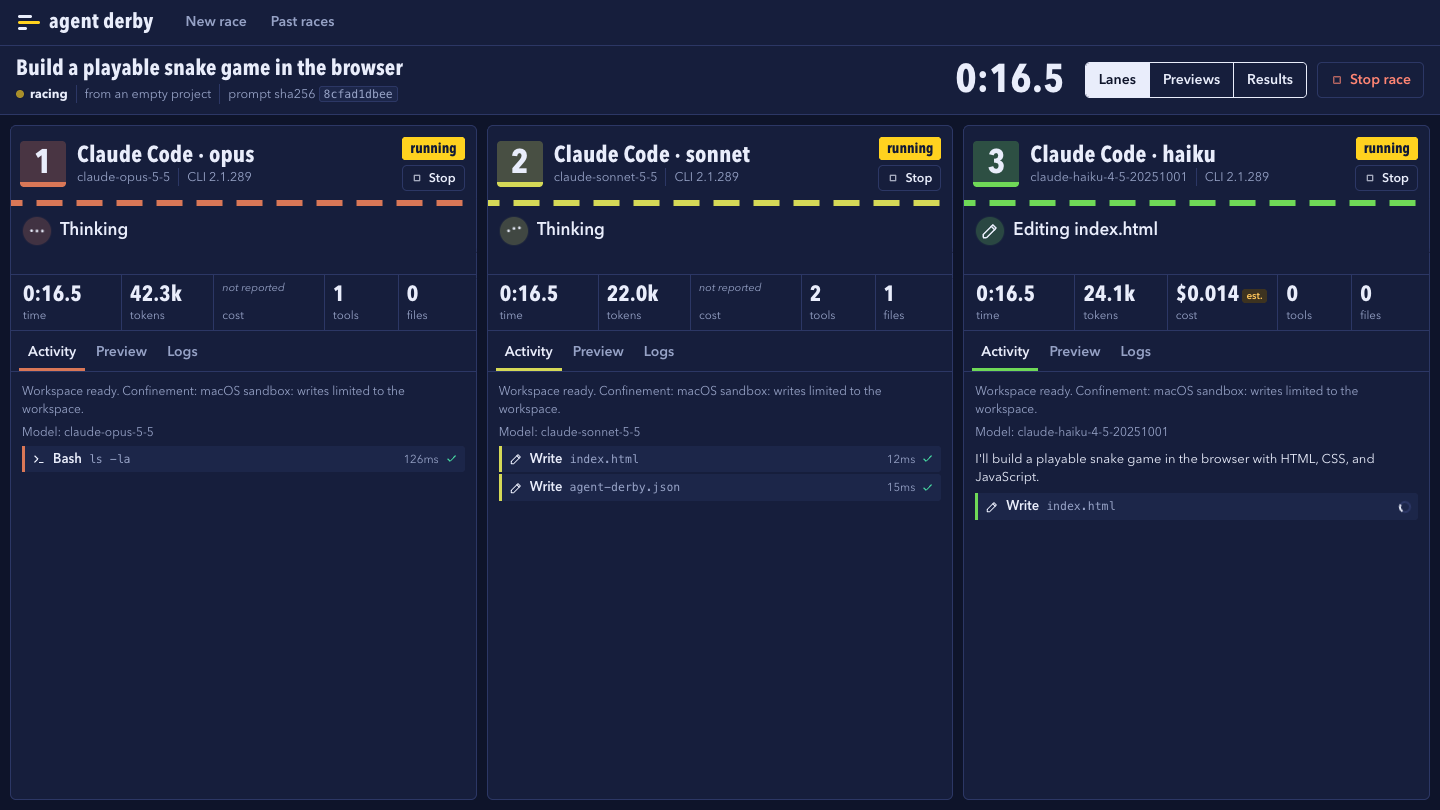
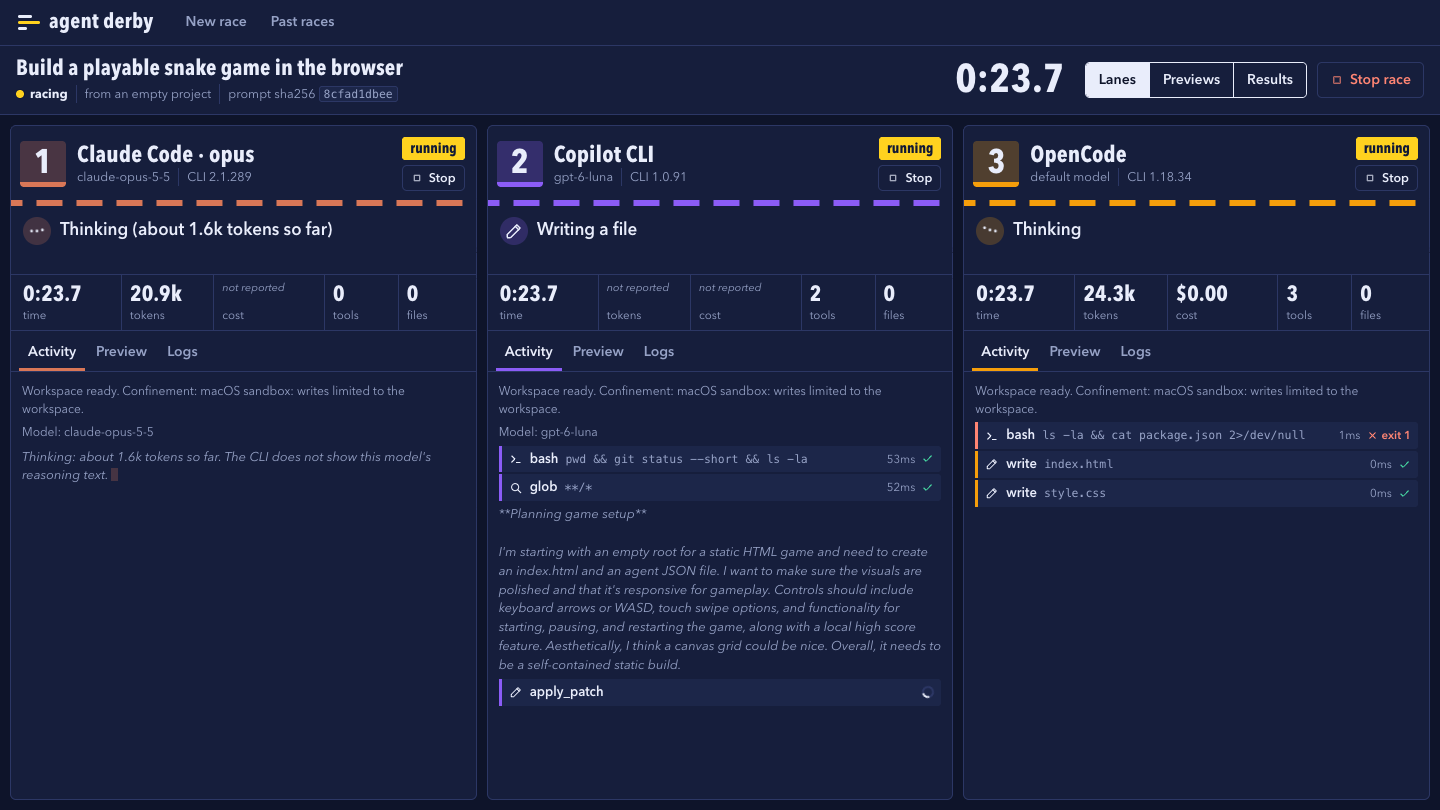
Release 0.2.0: stall limit, real three-vendor race in the README
- A lane that prints nothing at all for 5 minutes (adjustable, or off) is
  stopped and marked as stalled, and the lane counts down to it
- README images and GIF now come from a real race between Claude Code,
  Copilot CLI and OpenCode; new sections for blind races, follow-ups, the
  judge, suites and replay; a status table for every supported agent
- Tool durations for CLIs that report tools after the fact

diff --git a/src/server/race/engine.ts b/src/server/race/engine.ts
@@ -53,7 +53,10 @@ const FINISH_TIMEOUT = 15 * 60_000;
 const MAX_LANES = 8;
 const SNAPSHOT_FEED = 300;
 
-type StopReason = 'stopped' | 'timed_out' | 'over_budget';
+type StopReason = 'stopped' | 'timed_out' | 'over_budget' | 'stalled';
+
+/** A lane silent for this long is treated as stalled, unless the race says otherwise. */
+const DEFAULT_IDLE_LIMIT_SEC = 300;
 
 /** Things about a race that are not part of the public Race object. */
 interface Internal {
@@ -383,6 +386,7 @@ export class RaceEngine extends EventEmitter {
       timeLimitSec: setup.timeLimitSec && setup.timeLimitSec > 0 ? setup.timeLimitSec : undefined,
       costLimitUsd: setup.costLimitUsd && setup.costLimitUsd > 0 ? setup.costLimitUsd : undefined,
       blind: Boolean(setup.blind) || undefined,
+      idleLimitSec: typeof setup.idleLimitSec === 'number' && setup.idleLimitSec >= 0 ? setup.idleLimitSec : undefined,
     };
 
     const race: Race = {
@@ -725,7 +729,7 @@ export class RaceEngine extends EventEmitter {
           item.tool.target = ev.target ?? item.tool.target;
           lr.dirty.add(item);
         }
-        if (!ev.pending && !lr.toolStart.has(ev.id)) lr.toolStart.set(ev.id, t);
+        if (!ev.pending && !lr.toolStart.has(ev.id)) lr.toolStart.set(ev.id, Math.max(0, t - (ev.agoMs ?? 0)));
         lr.openTools.add(ev.id);
         this.closeStreaming(lr);
         this.setNow(lr, describeTool(ev.kind, ev.name, item.tool?.target ?? ev.target, Boolean(ev.pending)));
@@ -810,8 +814,15 @@ export class RaceEngine extends EventEmitter {
       if (lr.lane.state !== 'running') continue;
       active = true;
       const idle = Date.now() - lr.lastActivity;
-      if (idle > 45_000 && lr.openTools.size === 0) {
-        this.setNow(lr, { kind: 'waiting', text: `No output for ${Math.round(idle / 1000)}s` });
+      const idleLimit = rt.race.setup.idleLimitSec ?? DEFAULT_IDLE_LIMIT_SEC;
+      if (idleLimit > 0 && idle > idleLimit * 1000 && !lr.stopReason) {
+        this.stopLaneInternal(rt, lr, 'stalled');
+      } else if (idle > 45_000 && lr.openTools.size === 0) {
+        const left = idleLimit > 0 ? Math.max(0, Math.round(idleLimit - idle / 1000)) : null;
+        this.setNow(lr, {
+          kind: 'waiting',
+          text: `No output for ${Math.round(idle / 1000)}s${left !== null ? ` (stopped as stalled in ${left >= 90 ? `${Math.round(left / 60)} min` : `${left}s`})` : ''}`,
+        });
       }
       const limit = rt.race.setup.costLimitUsd;
       const cost = lr.tracker?.costNow() ?? null;
@@ -908,6 +919,10 @@ export class RaceEngine extends EventEmitter {
 
     // How did the agent itself end?
     if (lr.stopReason === 'stopped') return this.finishLane(rt, lr, 'stopped', 'Stopped by you');
+    if (lr.stopReason === 'stalled') {
+      const limit = rt.race.setup.idleLimitSec ?? DEFAULT_IDLE_LIMIT_SEC;
+      return this.finishLane(rt, lr, 'timed_out', `Stalled: no output at all for ${formatLimit(limit).replace('-', ' ')}s, so it was stopped`);
+    }
     if (lr.stopReason === 'timed_out') {
       return this.finishLane(rt, lr, 'timed_out', `Still running after the ${formatLimit(rt.race.setup.timeLimitSec ?? 0)} time limit`);
     }

diff --git a/web/src/components/Setup.tsx b/web/src/components/Setup.tsx
@@ -392,6 +392,7 @@ export function Setup() {
   const [repoChecking, setRepoChecking] = useState(false);
   const [repoError, setRepoError] = useState<string | null>(null);
   const [finishCommand, setFinishCommand] = useState(prefill?.finishCommand ?? '');
+  const [idleLimitMin, setIdleLimitMin] = useState(prefill?.idleLimitSec !== undefined ? String(Math.round((prefill.idleLimitSec / 60) * 100) / 100) : '');
   const [timeLimitMin, setTimeLimitMin] = useState(prefill?.timeLimitSec ? String(Math.round((prefill.timeLimitSec / 60) * 100) / 100) : '');
   const [costLimit, setCostLimit] = useState(prefill?.costLimitUsd ? String(prefill.costLimitUsd) : '');
   const [blind, setBlind] = useState(prefill?.blind === true);
@@ -515,6 +516,7 @@ export function Setup() {
   const unsigned = liveRows.map((r) => byId.get(r.agentId)).filter((a): a is AgentInfo => !!a && a.auth === 'missing');
 
   const timeNum = timeLimitMin.trim() === '' ? null : Number(timeLimitMin);
+  const idleNum = idleLimitMin.trim() === '' ? null : Number(idleLimitMin);
   const costNum = costLimit.trim() === '' ? null : Number(costLimit);
 
   const suiteTasks = [task, ...moreTasks];
@@ -559,6 +561,7 @@ export function Setup() {
       const setup: RaceSetup = { task: task.trim(), entrants, source };
       if (finishCommand.trim()) setup.finishCommand = finishCommand.trim();
       if (timeNum !== null) setup.timeLimitSec = Math.round(timeNum * 60);
+      if (idleNum !== null && Number.isFinite(idleNum) && idleNum >= 0) setup.idleLimitSec = Math.round(idleNum * 60);
       if (costNum !== null) setup.costLimitUsd = costNum;
       if (blind) setup.blind = true;
       rememberSetup(setup);
@@ -837,6 +840,13 @@ export function Setup() {
             <label className="field">
               <span>Time limit per agent, minutes</span>
               <input type="number" min="0" step="any" inputMode="decimal" value={timeLimitMin} onChange={(ev) => setTimeLimitMin(ev.target.value)} placeholder="no limit" />
+            </label>
+            <label className="field">
+              <span>Stop a silent agent after, minutes</span>
+              <input type="number" min="0" step="any" inputMode="decimal" value={idleLimitMin} onChange={(ev) => setIdleLimitMin(ev.target.value)} placeholder="5" />
+              <small className="muted">
+                An agent that prints nothing at all for this long is stopped and marked as stalled. 0 turns this off.
+              </small>
             </label>
             <label className="field">
               <span>Cost limit per agent, USD</span>

diff --git a/test/engine.test.ts b/test/engine.test.ts
@@ -198,6 +198,20 @@ describe('race engine with mock agents', () => {
     expect(done.lanes[0]!.stateReason).toBe('Stopped by you');
   }, 30_000);
 
+  it('stops a lane that goes completely silent, and says it stalled', async () => {
+    const created = await engine.create({
+      task: 'x',
+      entrants: [{ agentId: 'mock-gremlin', options: { scenario: 'hang' } }, { agentId: 'mock-hare' }],
+      source: { type: 'empty' },
+      idleLimitSec: 2,
+    });
+    const done = await settled(created.id, 20_000);
+    expect(done.lanes.map((l) => l.state)).toEqual(['timed_out', 'finished']);
+    expect(done.lanes[0]!.stateReason).toBe('Stalled: no output at all for 2 seconds, so it was stopped');
+    // The clock stopped when the stall was called, not when the stubborn process finally died.
+    expect(done.lanes[0]!.metrics.time.wallMs).toBeLessThan(4500);
+  }, 30_000);
+
   it('a failing finish command turns a completed run into a failure; a passing one records test counts', async () => {
     const created = await engine.create({
       task: 'x',

diff --git a/src/cli.ts b/src/cli.ts
@@ -42,6 +42,7 @@ Options for "run"
   -f, --finish <cmd>     a lane only finishes successfully if this passes, e.g. "npm test"
   -t, --time <limit>     per-agent time limit: 90s, 10m, 1h
   -c, --cost <usd>       per-agent cost limit in USD
+      --idle <limit>     stop an agent that prints nothing for this long (default 5m, "off" to disable)
       --plain            line-by-line output instead of panes (default when piped)
       --json             print the final race as JSON
       --open             also open the race in the browser
@@ -328,6 +329,7 @@ async function run(args: Args): Promise<void> {
       timeLimitSec: typeof args.flags.time === 'string' ? parseDuration(args.flags.time) : undefined,
       costLimitUsd: typeof args.flags.cost === 'string' ? Number(args.flags.cost) || undefined : undefined,
       blind: Boolean(args.flags.blind),
+      idleLimitSec: typeof args.flags.idle === 'string' ? (/^(off|0|none)$/i.test(args.flags.idle) ? 0 : parseDuration(args.flags.idle)) : undefined,
     };
   }
 

diff --git a/src/shared/types.ts b/src/shared/types.ts
@@ -94,6 +94,11 @@ export interface RaceSetup {
   finishCommand?: string;
   timeLimitSec?: number;
   costLimitUsd?: number;
+  /**
+   * Stop a lane that has produced no output at all for this long, and mark it
+   * as stalled. Undefined = the default of 5 minutes; 0 = never.
+   */
+  idleLimitSec?: number;
   /** Blind race: the UI hides which agent is in which lane until the user votes. */
   blind?: boolean;
 }

diff --git a/README.md b/README.md
@@ -14,7 +14,7 @@
 </p>
 
 <p align="center">
-  <img src="docs/assets/demo.gif" alt="A real race: Claude Opus 5.5, Sonnet 5.5 and Haiku 4.5 build a snake game, then all three games are playable in their lanes (time-lapse)" width="900">
+  <img src="docs/assets/demo.gif" alt="A real race between Claude Code, Copilot CLI and OpenCode building a snake game, then the finished games playable in their lanes (time-lapse)" width="900">
 </p>
 
 ```bash
@@ -36,13 +36,8 @@ People argue about which coding agent is best, but the evidence is public benchm
 - **When an agent finishes, its result runs inside the app**: web apps and games in an iframe, terminal programs in a real terminal.
 
 <p align="center">
-  <img src="docs/assets/racing.png" alt="Three Claude models mid-race, one lane each" width="820"><br>
-  <sub>Mid-race. Every screenshot on this page is from one real race: Claude Code on Opus 5.5, Sonnet 5.5 and Haiku 4.5, same prompt, real numbers. The GIF above is that race, sped up.</sub>
-</p>
-
-<p align="center">
-  <img src="docs/assets/previews.png" alt="The three finished games running side by side" width="820"><br>
-  <sub>Afterwards: all three results running side by side, ready to play.</sub>
+  <img src="docs/assets/racing.png" alt="Claude Code, Copilot CLI and OpenCode mid-race, one lane each" width="820"><br>
+  <sub>Mid-race, from a real race with the same prompt for all three: Claude Code on Opus 5.5, GitHub Copilot CLI, and OpenCode on one of its free models. The GIF above is the same race, sped up.</sub>
 </p>
 
 ## What you need
@@ -124,11 +119,21 @@ Installers for macOS, Windows and Linux are attached to each [release](https://g
 
 **Blind race.** Tick "Blind race" and the app hides which agent is in which lane: they become Agent A, B and C, in neutral colours, in a shuffled order. Try the results, pick the one you like best, and only then see who built it.
 
+<p align="center">
+  <img src="docs/assets/blind.png" alt="A blind race: lanes are called Agent A, B and C, each with a Pick this one button" width="820"><br>
+  <sub>A blind race with the demo agents.</sub>
+</p>
+
 **Follow-up rounds.** When a race ends, send every agent the same follow-up ("add a pause key", "now make it work on mobile"). Each one continues its own session in its own workspace, and its clock and counters keep adding up.
 
 **AI judge.** Ask any signed-in agent to review every result against the task. The judge sees the task and the changes, never which agent made them, and returns a score out of 10 with strengths and problems. A verdict is one model's opinion: it is labelled that way everywhere and never changes the ranking.
 
 **Suites.** One task is an anecdote. Give the app a list of tasks and it runs them one after another with the same agents, then shows a combined leaderboard: tasks finished, wins, time, cost.
+
+<p align="center">
+  <img src="docs/assets/suite.png" alt="A suite: a leaderboard across three tasks" width="820"><br>
+  <sub>A suite of three tasks with the demo agents.</sub>
+</p>
 
 **Replay.** Any race can be saved as a single self-contained web page that replays it, to send to someone or post. Nothing is uploaded.
 
@@ -143,6 +148,7 @@ Installers for macOS, Windows and Linux are attached to each [release](https://g
 | | |
 | --- | --- |
 | **Time** | wall time, time to first edit, time waiting on the model versus running commands |
+| **Limits** | optional time and cost limits per agent, and a stall limit: an agent that prints nothing at all for 5 minutes (adjustable) is stopped and marked as stalled |
 | **Tokens** | input, output, cache read and write, reasoning |
 | **Cost** | the figure the CLI reports; otherwise an estimate from [`config/pricing.json`](config/pricing.json), always labelled **est.** |
 | **Activity** | turns, tool calls by type, commands run and failed, errors and retries |
